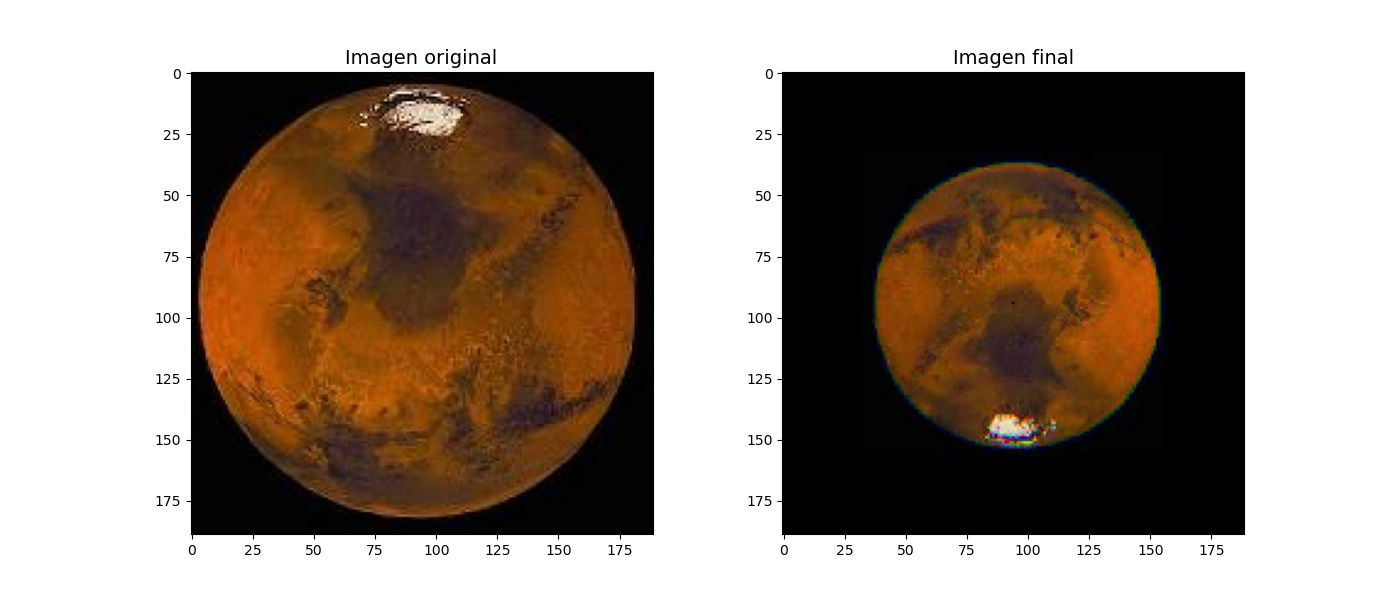
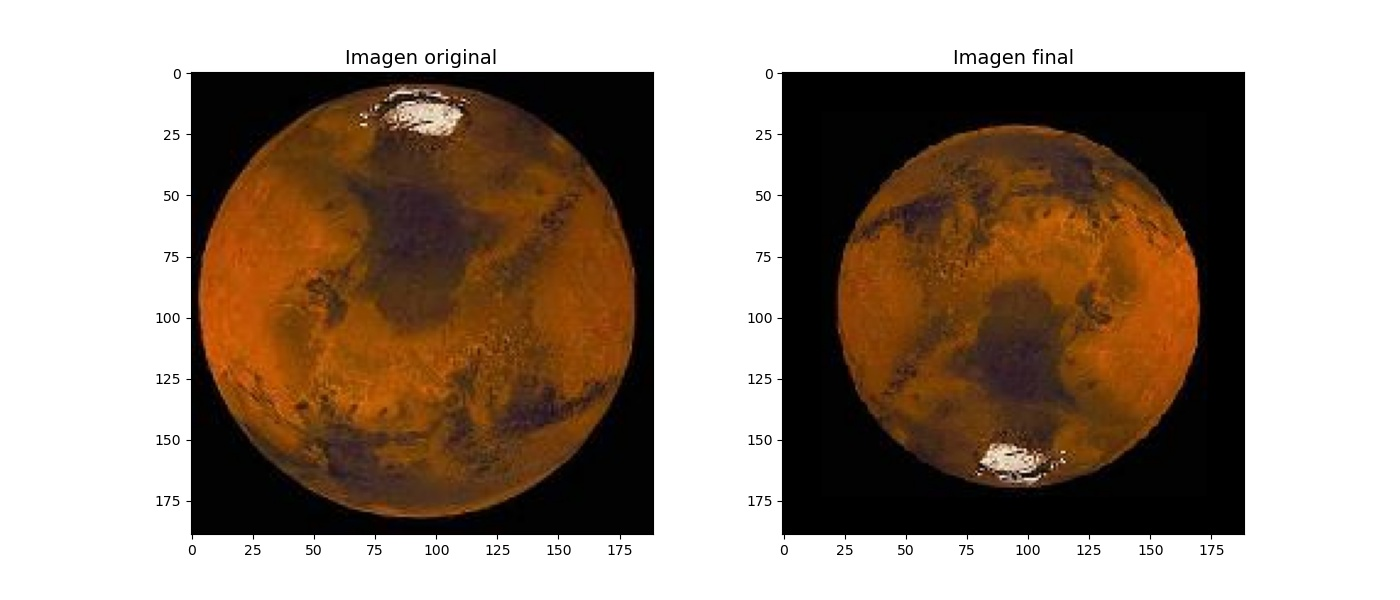
Corrección de color, espejo curvo y lente añadidos

Changed region(s): [[0.5836, 0.18, 0.86, 0.84]]

diff --git a/core/optic_path.py b/core/optic_path.py
@@ -16,19 +16,26 @@ class OpticalSystem:
         self.image = self.image.astype(np.int16)
         self.ishape = self.image.shape  # Tamaño de la imagen
 
-        self.x_abs = self.ishape[1] # Posición absoluta en x
-        self.y_abs = self.ishape[0] # Posición absoluta en y
+        self.x_abs = self.ishape[1] # Tamaño de x
+        self.y_abs = self.ishape[0] # Tamaño de y
+
+        self.x_mid = self.x_abs/2
+        self.y_mid = self.y_abs/2
+
+        self.pixel_height = 0.127/np.min([self.x_abs, self.y_abs])
 
         print()
         print(f'Imagen {image_name} cargada')
+
+        self.output_name = f'{image_name[:image_name.find(".")]}_output.jpg'  # Nombre del archivo de salida
 
     def add_space(self, d, n = 1):
         # Transfer matrix
 
         if type(n) in [int, float]:
-            n0 = [n,n,n]
+            n0 = np.array([n,n,n])
         else:
-            n0 = n.copy() 
+            n0 = np.array(n)
 
         if self.A is None:
             self.A = [0,0,0]
@@ -36,49 +43,66 @@ class OpticalSystem:
             self.A[1] = np.array([[1, 0],[d/n0[1], 1]])
             self.A[2] = np.array([[1, 0],[d/n0[2], 1]])
         else:
-            self.A[0] = self.A[0].dot(np.array([[1, 0],[d/n0[0], 1]]))
-            self.A[1] = self.A[1].dot(np.array([[1, 0],[d/n0[1], 1]]))
-            self.A[2] = self.A[2].dot(np.array([[1, 0],[d/n0[2], 1]]))
+            self.A[0] = np.array([[1, 0],[d/n0[0], 1]]).dot(self.A[0])
+            self.A[1] = np.array([[1, 0],[d/n0[1], 1]]).dot(self.A[1])
+            self.A[2] = np.array([[1, 0],[d/n0[2], 1]]).dot(self.A[2])
 
         if self.d0 == None:
             self.d0 = d 
             self.n0 = n0
 
     def add_plane_mirror(self):
-        # Mirror matrix
+
+        # Matriz del espejo
         self.A[0] = np.array([[-1, 0], [1, 0]]).dot(self.A[0])
         self.A[1] = np.array([[-1, 0], [1, 0]]).dot(self.A[1])
         self.A[2] = np.array([[-1, 0], [1, 0]]).dot(self.A[2])
 
     def add_single_lens(self, R1, R2, nl, dl):
-        # Surfaces power
-        nl_ = np.array(nl) 
 
-        D1 = (nl_ - 1)/R1
-        D2 = (nl_ - 1)/(-R2)
+        if type(nl) in [int, float]:
+            n0 = np.array([nl,nl,nl])
+        else:
+            n0 = np.array(nl)
 
-        # Lens Matrix
-        a1 = (1 - (D2*dl)/nl_)
-        a2 = -D1-D2+(D1*D2*dl/nl_)
-        a3 = dl/nl_
-        a4 = (1 - (D1*dl)/nl_)
+        # Poder de las superficies
+        D1 = (n0 - 1)/R1
+        D2 = (n0 - 1)/(-R2)
 
-        #Modify global A
-        self.A[0] = self.A[0].dot(np.array([[a1[0],a2[0]],[a3[0],a4[0]]]))
-        self.A[1] = self.A[1].dot(np.array([[a1[1],a2[1]],[a3[1],a4[1]]]))
-        self.A[2] = self.A[2].dot(np.array([[a1[2],a2[2]],[a3[2],a4[2]]]))
+        # Términos de la matriz de lentes
+        a1 = (1 - (D2*dl)/n0)
+        a2 = -D1-D2+(D1*D2*dl/n0)
+        a3 = dl/n0
+        a4 = (1 - (D1*dl)/n0)
+
+        # Modificar la A global 
+        self.A[0] = np.array([[a1[0],a2[0]],[a3[0],a4[0]]]).dot(self.A[0])
+        self.A[1] = np.array([[a1[1],a2[1]],[a3[1],a4[1]]]).dot(self.A[1])
+        self.A[2] = np.array([[a1[2],a2[2]],[a3[2],a4[2]]]).dot(self.A[2])
+
+    def add_curved_mirror(self, R, n = 1):
+
+        if type(n) in [int, float]:
+            n0 = [n,n,n]
+        else:
+            n0 = n.copy()
+        
+        self.A[0] = np.array([[-1, -2*n0[0]/R], [0, 1]]).dot(self.A[0])
+        self.A[1] = np.array([[-1, -2*n0[1]/R], [0, 1]]).dot(self.A[1])
+        self.A[2] = np.array([[-1, -2*n0[2]/R], [0, 1]]).dot(self.A[2])
 
     def trace(self, output_size = None ):
 
-
         if output_size is None:
-            self.transformed = np.full((self.ishape[0], self.ishape[1], 3), fill_value= 0, dtype=np.int16) # Crear la matriz de salida
-            self.output_size = self.ishape[0], self.ishape[1]
+            self.transformed = np.full((self.y_abs, self.y_abs, 3), fill_value= 0, dtype=np.int16) # Crear la matriz de salida
         else:
-            self.transformed = np.full((output_size[1], output_size[0], 3), fill_value= 0, dtype=np.int6) # Crear la matriz de salida
-            self.output_size = output_size
+            self.transformed = np.full((output_size[1], output_size[0], 3), fill_value= 0, dtype=np.int16) # Crear la matriz de salida
             # output_size debe ser (width, height)
-        
+
+        self.output_size = self.transformed.shape
+
+        print(self.output_size)
+
         print()
         print('Comienza trazado de rayos')
         start = time.time() # Tiempo al empezar
@@ -86,16 +110,19 @@ class OpticalSystem:
         for rayo in [0,1]:
             for idx, pixel in np.ndenumerate(self.image):
 
-                x = idx[1] - self.x_abs/2
-                y = idx[0] - self.y_abs/2
+                x = idx[1] - self.x_mid  # Conversión a coordenadas centradas
+                y = idx[0] - self.y_mid
 
-                r = np.sqrt(x**2+y**2)
-                y_obj = r*0.0001  # Multiplicación por la unidad en metros de cada píxel
+                r = np.sqrt(x**2+y**2) # Distancia desde el origen al punto
+                y_obj = r*self.pixel_height  # Multiplicación por la unidad en metros de cada píxel
 
-                if rayo == 0:
+                if rayo == 0: # Rayo principal
                     alpha_entrada = np.arctan(y_obj/self.d0)
-                elif rayo == 1:
+                elif rayo == 1: # Rayo paralelo
                     alpha_entrada = 0
+
+                if y_obj == 0:
+                    continue
 
                 v_in = np.array([self.n0[idx[2]]*alpha_entrada,y_obj])
                 v_out = self.A[idx[2]].dot(v_in)
@@ -105,7 +132,6 @@ class OpticalSystem:
 
                 x_ = mt*x
                 y_ = mt*y
-
 
                 pos_x_prime = int(x_ + self.output_size[1]/2)
                 pos_y_prime = int(y_ + self.output_size[0]/2)
@@ -126,10 +152,14 @@ class OpticalSystem:
                 elif rayo == 1: #paralelo    
                     new_value = int((self.transformed[pos_x_prime, pos_y_prime, idx[2]]+pixel)/2)
                     self.transformed[pos_x_prime, pos_y_prime, idx[2]] = new_value
+        
+        center_color1 = self.image[int(self.y_mid+1), int(self.x_mid+1), :]
+        center_color2 = self.image[int(self.y_mid-1), int(self.x_mid-1), :]
+
+        self.transformed[int(self.y_mid), int(self.x_mid), :] = (center_color1+ center_color2)/2
     
         stop = time.time()  # Tiempo al terminar
-        print(f'Trazado de rayos hecho en {stop-start:.2f} segundos')
-        print()
+
 
     def plot(self, save = False):
         fig, ax = plt.subplots(1, 2, figsize = (14,6))
@@ -141,7 +171,7 @@ class OpticalSystem:
         ax[1].set_title('Imagen final', fontsize = 14)
 
         if save:
-            fig.savefig(os.path.join('outputs', save))
+            fig.savefig(os.path.join('outputs', self.output_name))
 
         plt.show(block = True)
         

diff --git a/reflector.py b/reflector.py
@@ -1,16 +1,16 @@
 from core import OpticalSystem
 
-image_name = 'marte.jpg' 
-output_name = 'marte_output.jpg'
+image_name = 'cielo_nocturno.jpg'
 
-# Load settings
-reflector = OpticalSystem() # Instanciar la clase
-reflector.load(image_name)  # Cargar la imagen
+n_vidrio = [1.51, 1.52, 1.53]
+n_aire = [1, 1, 1]
 
+reflector = OpticalSystem()
+reflector.load(image_name)
 
-
-reflector.add_space(2, n = [1.30,1.32,1.35]) # Añadir espacio de 2 m con n = 1 (aire)
+reflector.add_space(1.2, n_aire)
 reflector.add_plane_mirror()
 
 reflector.trace() # Hacer el trazado matricial de rayos
-reflector.plot(save = output_name) # Graficar
+reflector.plot(save = True) # Graficar
+
